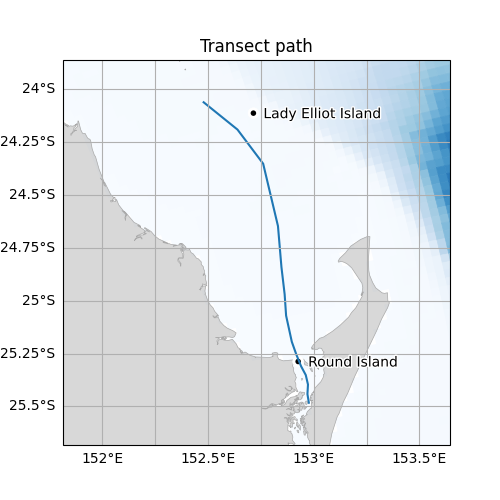
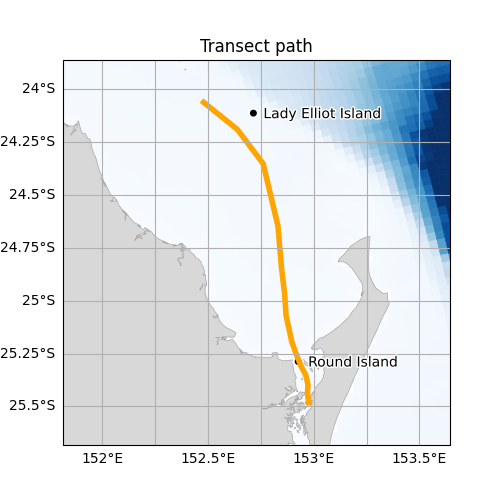
Update K'gari transect example

diff --git a/docs/examples/kgari-transect.py b/docs/examples/kgari-transect.py
@@ -4,7 +4,7 @@ from matplotlib import pyplot
 import emsarray
 from emsarray import plot, transect
 
-dataset_url = 'https://thredds.nci.org.au/thredds/dodsC/fx3/model_data/gbr4_bgc_GBR4_H2p0_B2p0_Chyd_Dcrt.ncml'
+dataset_url = 'https://thredds.nci.org.au/thredds/dodsC/fx3/gbr4_H4p0_ABARRAr2_OBRAN2020_FG2Gv3_Dhnd/gbr4_simple_2022-10-31.nc'
 dataset = emsarray.open_dataset(dataset_url).isel(time=-1)
 dataset = dataset.ems.select_variables(['botz', 'temp'])
 
@@ -34,7 +34,9 @@ figure = transect.plot(
     dataset, line, dataset['temp'],
     figsize=(7.9, 3),
     bathymetry=dataset['botz'],
-    landmarks=landmarks)
+    landmarks=landmarks,
+    title="Temperature",
+    cmap='Oranges_r')
 figure.savefig('kgari-transect.png')
 
 # Plot the path of the transect
@@ -43,14 +45,15 @@ axes = figure.add_subplot(projection=dataset.ems.data_crs)
 axes.set_aspect(aspect='equal', adjustable='datalim')
 axes.set_title('Transect path')
 axes.add_collection(dataset.ems.make_poly_collection(
-    dataset['botz'], cmap='Blues_r', edgecolor='face',
+    dataset['botz'], cmap='Blues', clim=(0, 2000), edgecolor='face',
     linewidth=0.5, zorder=0))
+axes = figure.axes[0]
+axes.set_extent(plot.bounds_to_extent(line.envelope.buffer(0.2).bounds))
+axes.plot(*line.coords.xy, zorder=2, c='orange', linewidth=4)
+
 plot.add_coast(axes, zorder=1)
 plot.add_gridlines(axes)
 plot.add_landmarks(axes, landmarks)
-axes = figure.axes[0]
-axes.set_extent(plot.bounds_to_extent(line.envelope.buffer(0.2).bounds))
-axes.plot(*line.coords.xy, zorder=2)
 figure.savefig('kgari-path.png')
 
 pyplot.show(block=True)
